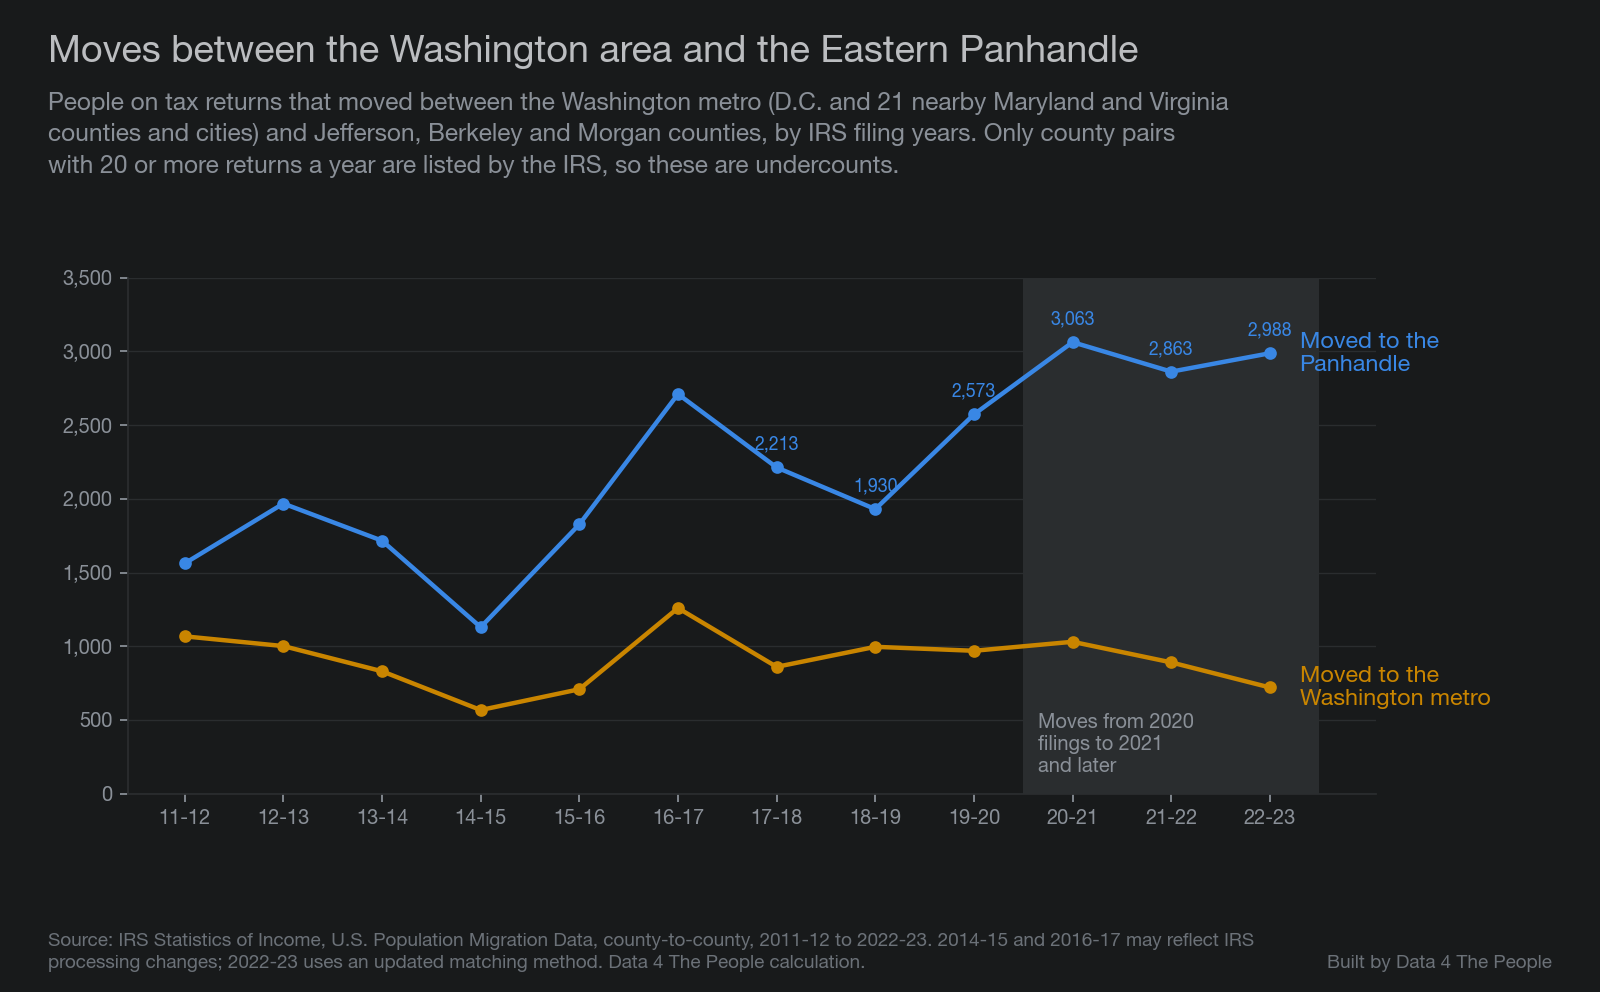
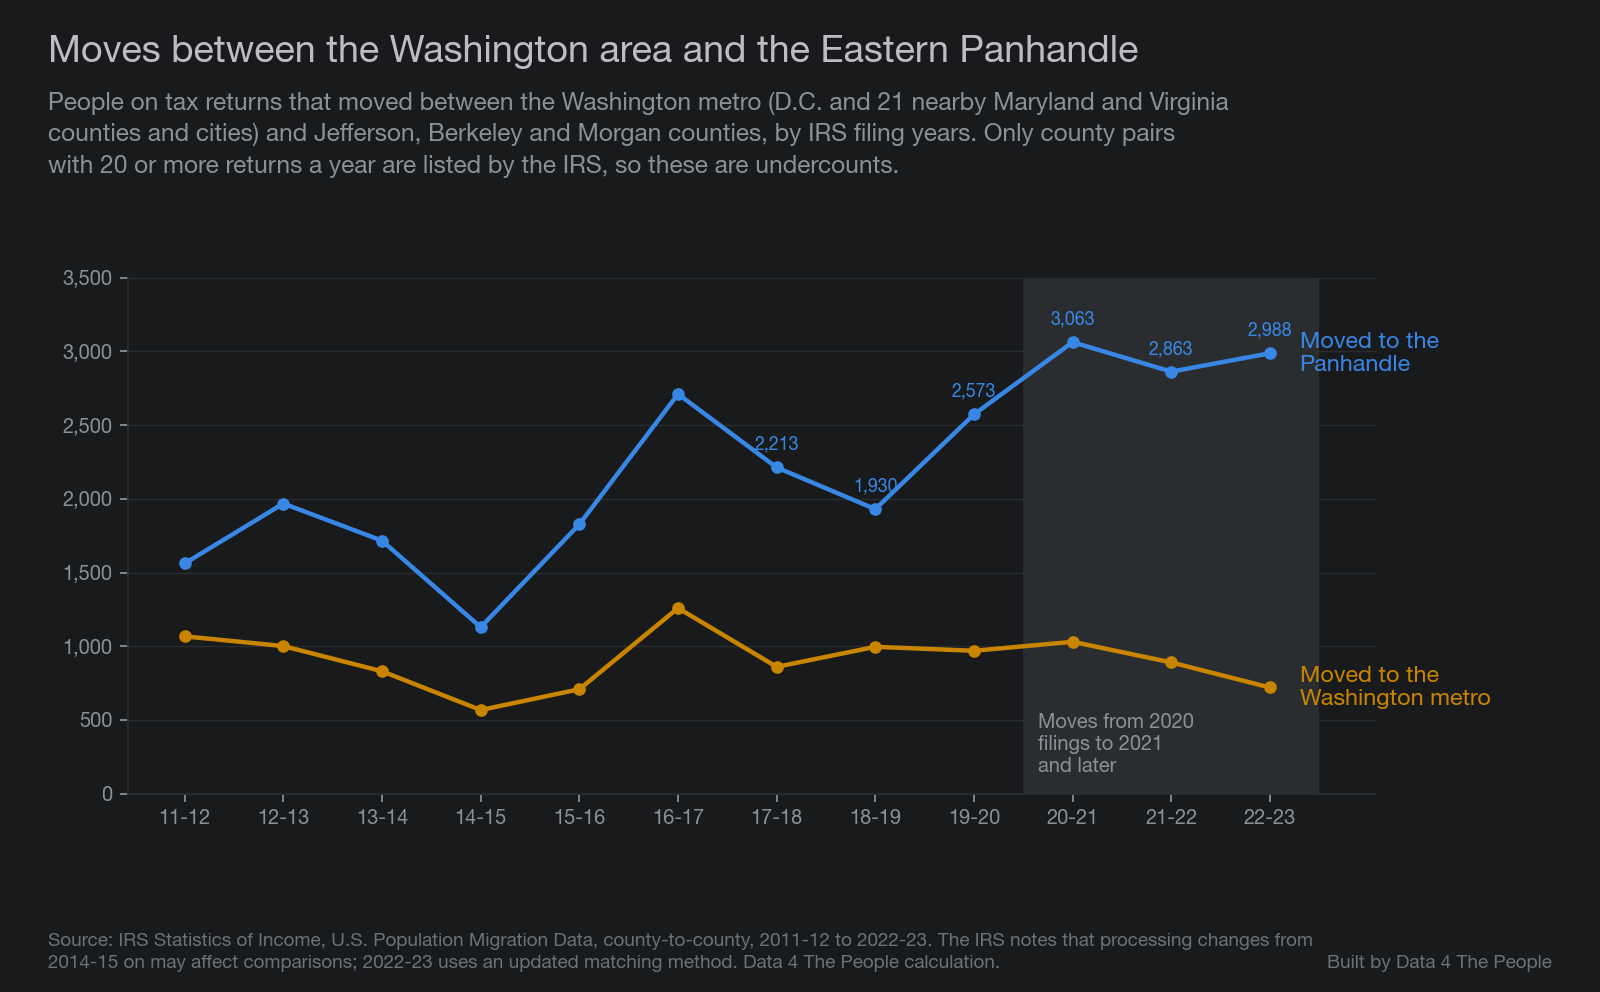
west-virginia-ascend: wording fixes from the independent IRS tie-out

Changed region(s): [[0.0312, 0.9688, 0.5625, 1.0], [0.5625, 0.9375, 0.8125, 1.0]]

diff --git a/scripts/11_panhandle_chart.py b/scripts/11_panhandle_chart.py
@@ -40,8 +40,8 @@ def main():
                "Virginia\ncounties and cities) and Jefferson, Berkeley and Morgan counties, by IRS filing years. "
                "Only county pairs\nwith 20 or more returns a year are listed by the IRS, so these are undercounts.")
     credit(fig, "Source: IRS Statistics of Income, U.S. Population Migration Data, county-to-county, 2011-12 to "
-                "2022-23. 2014-15 and 2016-17 may reflect IRS\nprocessing changes; 2022-23 uses an updated matching "
-                "method. Data 4 The People calculation.")
+                "2022-23. The IRS notes that processing changes from\n2014-15 on may affect comparisons; 2022-23 uses an updated "
+                "matching method. Data 4 The People calculation.")
     fig.savefig(CHARTS / "08-washington-panhandle-moves.png")
     plt.close(fig)
 

diff --git a/DATASETS.md b/DATASETS.md
@@ -175,15 +175,19 @@ all small flows.
 
 **Changes over time.** `n2` meant exemptions through 2018-19 and individuals
 from 2019-20. 2022-23 uses an updated matching method that the IRS says raised
-matched returns by about 5%. 2014-15 and 2016-17 show swings that may come
-from IRS processing changes. 2020-21 and 2021-22 files drop leading zeros in
+matched returns by about 5%. The 2014-15 guide notes identity-theft processing
+changes that "may have an impact on the migration data"; 2014-15 and 2016-17
+show swings that may come from them. 2020-21 and 2021-22 files drop leading zeros in
 FIPS codes; the script pads them.
 
 **Results.** People moving from the Washington metro to the Panhandle averaged
 2,239 a year before and 2,971 after (32.7% more). Moves the other way averaged
 942 and 880 (6.5% fewer). Net, 1,297 and 2,091 (61.2% more). All U.S.
-arrivals rose 11.8% (9,582 to 10,710), so the Washington metro's share rose
-from 23.4% to 27.7%. Nearby Maryland, Virginia and Pennsylvania counties rose
+arrivals rose 11.8% (9,582 to 10,710), so the Washington metro's share (sum of its
+arrivals over sum of all arrivals, three years each) rose from 23.4% to 27.7%.
+The increase stays between 29.3% and 36.2% if any one county is dropped from
+the list, and about 30.6% if 2022-23 is scaled down 5% for the matching change
+(independent tie-out, November 18, 2026). Nearby Maryland, Virginia and Pennsylvania counties rose
 1.4%. The data show where movers came from, not why they moved.
 
 **License.** IRS public data. Cite as "IRS Statistics of Income, U.S.
